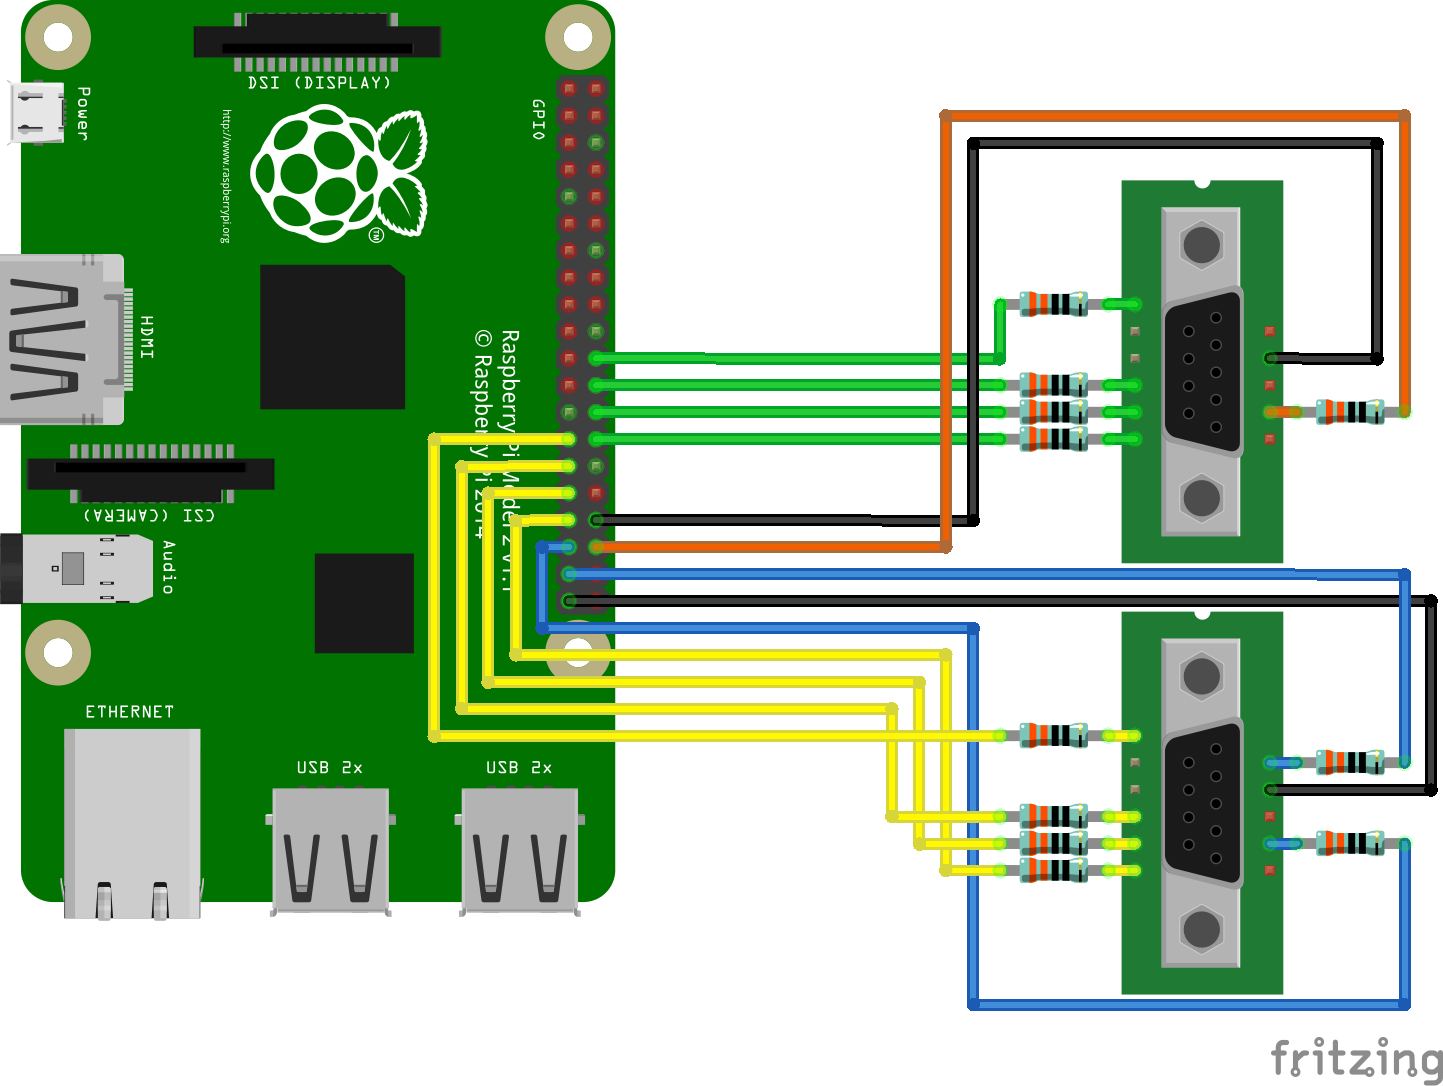
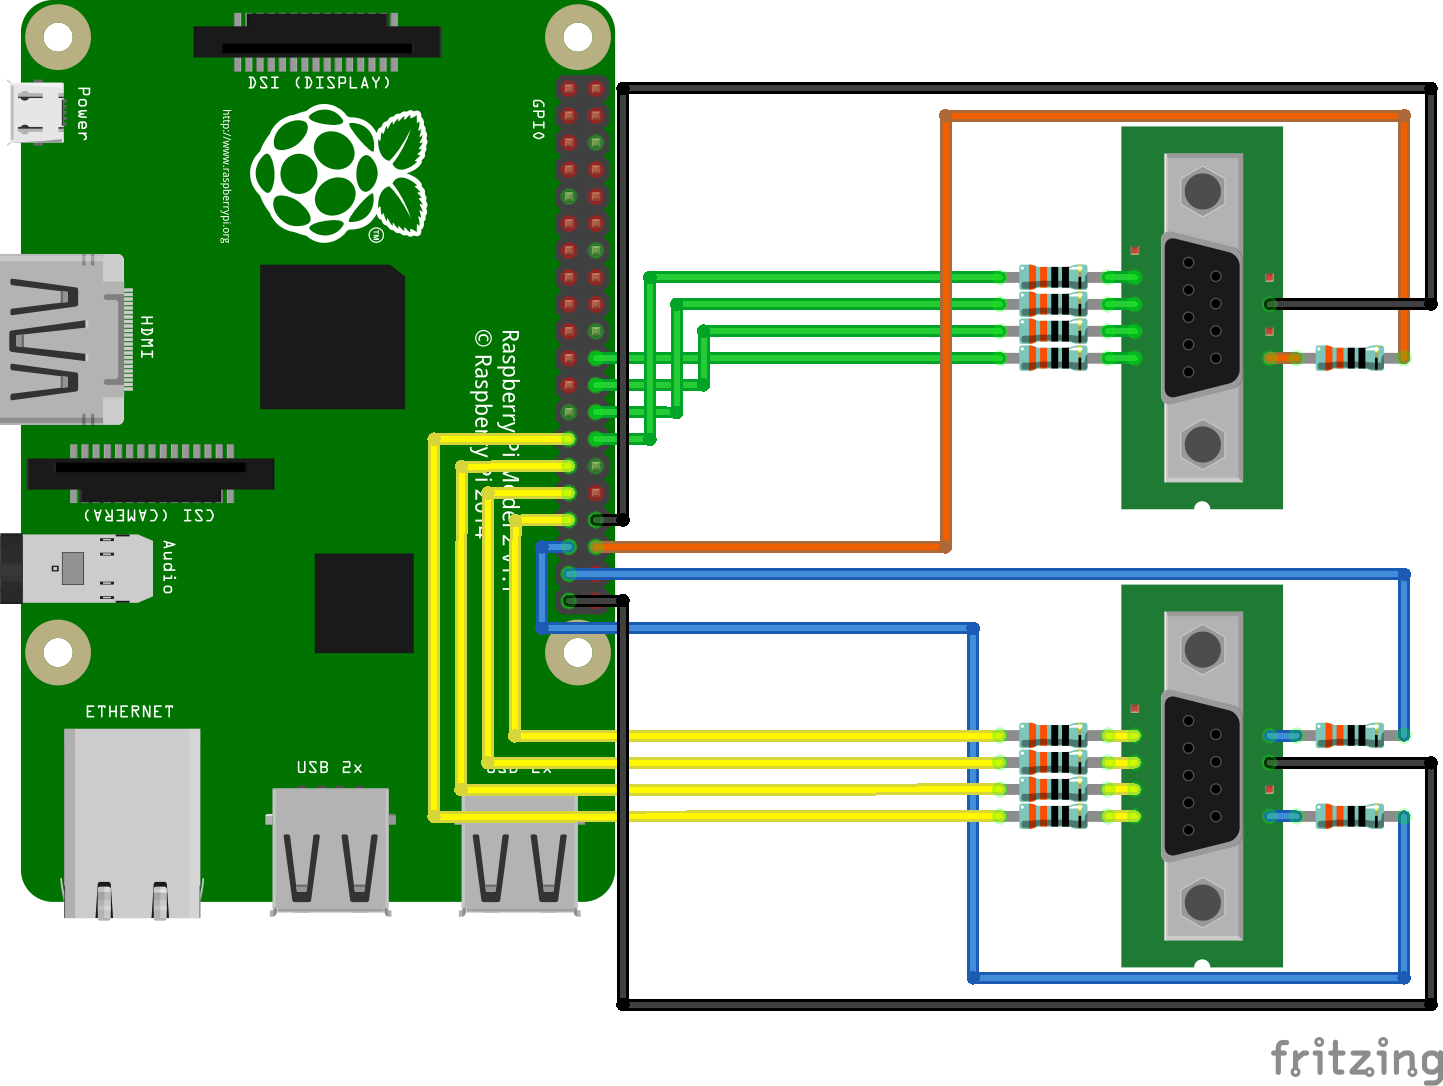
Fixed wiring schemes.

Changed region(s): [[0.2807, 0.0608, 0.9979, 0.942], [0.343, 0.5166, 0.3742, 0.547]]

diff --git a/README.md b/README.md
@@ -86,8 +86,9 @@ DB9 | GPIO | HDR
  8 -- GND --- 34 
 ```
 
-I will provide a more detailed pinout with later releases.
-
+Wiring diagrams are in the doc directory. Stock DB9 connector in Fritzing was
+a little bit strange, so there's an alternative version and you'll probably need
+to import it if you want to open the .fzz file.
 
 ## Why?
 
